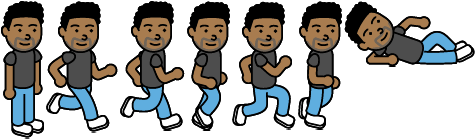
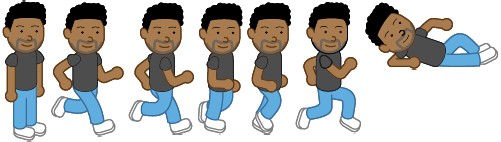
autocommit

diff --git a/gameprototype/main.js b/gameprototype/main.js
@@ -13,8 +13,9 @@ var coinSfx, bgMusic;
 var play = function () {};
 
 play.prototype = {
-    preload: function() {
+    preload : function() {
         game.load.atlasJSONHash('harrison', 'assets/harrison.png', 'assets/harrison.json');
+        game.load.atlasJSONHash('die', 'assets/die.png', 'assets/die.json');
 
         game.load.image('ground', 'assets/ground.png');
         game.load.image('longPlatform', 'assets/longPlatform.png');
@@ -39,7 +40,7 @@ play.prototype = {
         game.scale.pageAlignVertically = true;
         // game.scale.setScreenSize(true);
     },
-    create: function() {
+    create : function() {
         score = 0;
         currentLevel = 0;
         levelFrame = 0;
@@ -85,32 +86,19 @@ play.prototype = {
 
         cursors = game.input.keyboard.createCursorKeys();
     },
-    update: function() {
+    update : function() {
+        this.handleBounds();
+
         if (!player.alive && !dying) {
             // just died
-            dying = 120;
+            dying = 90;
         } else if (dying === 1) {
             game.state.start("Play");
         } else if (dying) {
             dying--;
-            game.physics.arcade.collide(bones, grounds);
-            game.physics.arcade.collide(bones, platforms);
             return;
         }
 
-        score += 1 / 60;
-        speed += 2 / 60;
-        scoreText.text = 'Score: ' + score;
-        speedText.text = 'Speed: ' + speed;
-
-        game.background.tilePosition.x -= 1;
-        middleGround.tilePosition.x -= 2;
-
-        game.physics.arcade.collide(bones, grounds);
-        game.physics.arcade.collide(bones, platforms);
-        game.physics.arcade.collide(player, grounds);
-        game.physics.arcade.collide(player, platforms);
-        game.physics.arcade.collide(player, clouds);
         game.physics.arcade.overlap(player, bullets, function() {
             player.kill();
         });
@@ -123,12 +111,27 @@ play.prototype = {
             coinSfx.play();
         });
 
+        score += 1 / 60;
+        speed += 2 / 60;
+        scoreText.text = 'Score: ' + score;
+        speedText.text = 'Speed: ' + speed;
+
+        game.background.tilePosition.x -= 1;
+        middleGround.tilePosition.x -= 2;
+
         // if (clouds.length < 2) {
         //     var cloud = new MovingCloudPlatform(game, game.world.width + 10, Math.random() * (game.world.height - 70), 'cloud-platform', clouds);
         // }
 
         this.generateLevel();
         this.generateGround();
+    },
+    handleBounds : function() {
+        game.physics.arcade.collide(bones, grounds);
+        game.physics.arcade.collide(bones, platforms);
+        game.physics.arcade.collide(player, grounds);
+        game.physics.arcade.collide(player, platforms);
+        game.physics.arcade.collide(player, clouds);
     },
     generateGround : function() {
         var hasground = false;

diff --git a/gameprototype/Player.js b/gameprototype/Player.js
@@ -9,7 +9,8 @@ Player = function(game, sfx) {
     this.alive = true;
     this.sliding = true;
     this.sfx = sfx;
-    
+    this.anchor.x = 0.5;
+    this.anchor.y = 1;
     // this.scale.setTo(0.50, 0.50); // TO DO : REMOVE THIS AND CHANGE ALL THE * 2
     this.initMobileControls();
     this.run();
@@ -25,9 +26,10 @@ Player.prototype.update = function() {
     // game.debug.body(player);
 
     if (!this.alive) {
-        this.body.velocity.x = 0;
-        this.body.velocity.y = 350;
-        this.animations.play('stand', speed/40);
+        // this.body.velocity.x = 0;
+        // this.body.velocity.y = 350;
+        // this.animations.play('stand', speed/40);
+        this.animations.play('die', 4);
         return;
     }
 
@@ -65,8 +67,8 @@ Player.prototype.slide = function() {
     this.animations.play('slide', 10);
     if (!this.sliding) {
         this.body.setSize(this.width, this.height);
-        this.body.offset.y = 75;
-        this.body.offset.x = 0;
+        // this.body.offset.y = 75;
+        // this.body.offset.x = 0;
         this.sliding = true;
         this.slideMin = 30;
         this.sfx.slide.play();
@@ -77,8 +79,8 @@ Player.prototype.run = function() {
     this.animations.play('run', speed/35);
     if (this.sliding) {
         this.body.setSize(this.width, this.height);
-        this.body.offset.y = 10;
-        this.body.offset.x = 35;
+        // this.body.offset.y = 10;
+        // this.body.offset.x = 35;
         this.sliding = false;
     }
 };
@@ -86,6 +88,9 @@ Player.prototype.run = function() {
 Player.prototype.kill = function() {
     this.alive = false;
     this.sfx.die.play();
+    speed = 0; // TODO: fix this is stupid
+    this.loadTexture('die');
+    this.animations.add('die', [0, 1, 2, 3, 4, 5]);
 };
 
 Player.prototype.initMobileControls = function() {
